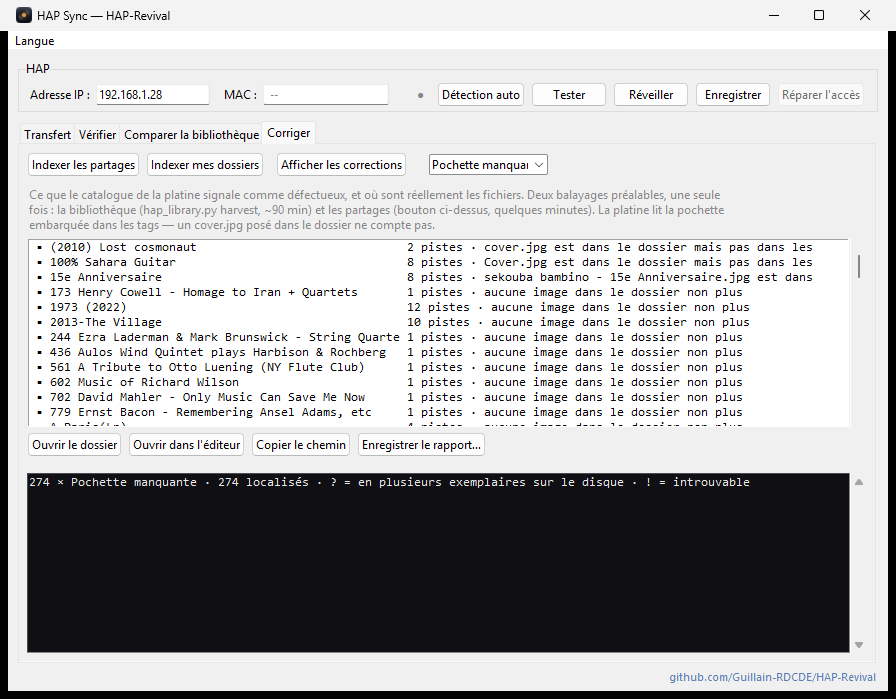
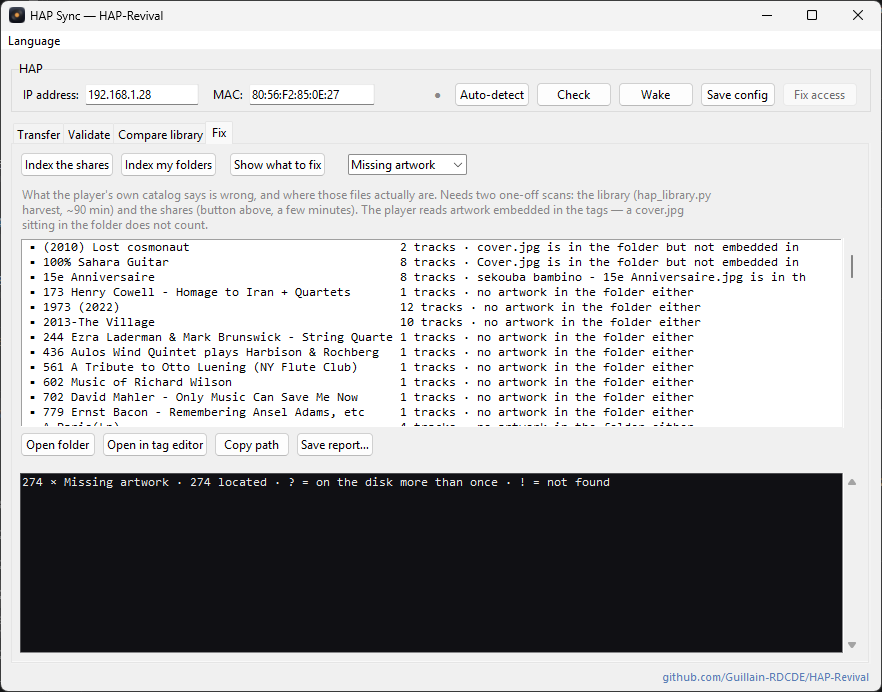
Put real screenshots in the reference, and restore its markdownlint header
Six features are described; none were shown. Add, in docs/REFERENCE.md:
- the web remote (now-playing) against the bundled mock, in "Control it from your phone"
- the three real 480x272 front-panel captures as a triptych, same section
- the library audit run over REST on a real 78,369-track library, in "Search it, and audit it"
- both HAP Sync window shots redone in English so the pair is consistent

The README-to-reference cut dropped the `markdownlint-disable MD033 MD041`
header, so every inline-HTML block in REFERENCE.md was tripping the docs-lint
gate (red on main). Restore the header and collapse a trailing double blank.

Changed region(s): [[0.0, 0.0, 1.0, 1.0], [0.2143, 0.1214, 0.4286, 0.1517]]

diff --git a/docs/REFERENCE.md b/docs/REFERENCE.md
@@ -1,3 +1,4 @@
+<!-- markdownlint-disable MD033 MD041 -->
 # HAP-Revival — reference
 
 [← Back to the README](../README.md)
@@ -37,9 +38,29 @@ python tools/webui.py <hap-ip>        # then open http://localhost:8080
 Now-playing with cover art, transport, seek, the sound settings, six languages, light and dark.
 Updates arrive the instant the music changes, because the player pushes them.
 
+<div align="center">
+<br>
+<img src="../.github/webui-phone.png" width="280" alt="The web remote on a phone: now playing, with ambient colour from the cover art">
+<br>
+<sub><i>The web remote, now-playing. Background colour is pulled from the cover art. Runs on any phone — and with no player at hand, against the bundled mock (<code>webui.py --demo</code>), which is what this shot is.</i></sub>
+<br>
+</div>
+
 It also shows **the player's own front panel, live, with its buttons** — so everything Sony left in
 the on-device menus but took out of the app is reachable from the sofa. Including playing a whole
 album, which none of the APIs can do.
+
+<div align="center">
+<br>
+<img src="../research/captures/screen-20260827-nowplaying-tunein.png" width="31%" alt="Front panel, now playing an internet radio station">
+&nbsp;
+<img src="../research/captures/screen-20260827-stream-select.png" width="31%" alt="Front panel, choosing a stream">
+&nbsp;
+<img src="../research/captures/screen-20260827-option-menu.png" width="31%" alt="Front panel, the options menu">
+<br>
+<sub><i>The player's own 480×272 display, fetched over HTTP: now playing, stream select, options — the real device, not a mock-up.</i></sub>
+<br>
+</div>
 
 On an iPhone: Safari → Share → **Add to Home Screen** gives a standalone remote with its own icon.
 No App Store. [How to install it](../docs/13-control-app.md).
@@ -100,6 +121,14 @@ for want of artwork, duplicated tracks.
 ```bash
 python tools/library_audit.py --from-player <hap-ip>
 ```
+
+<div align="center">
+<br>
+<img src="../.github/library-audit.png" width="760" alt="The library audit: quality mix, formats and sample rates of a real 78,369-track library">
+<br>
+<sub><i>The audit, run over the network against a real 78,369-track library. It also produces a full HTML report (<code>--html</code>).</i></sub>
+<br>
+</div>
 
 <br>
 
@@ -363,4 +392,3 @@ Corrections are as welcome as findings. Several claims on these pages were wrong
 owned the hardware said so.
 
 <br>
-
